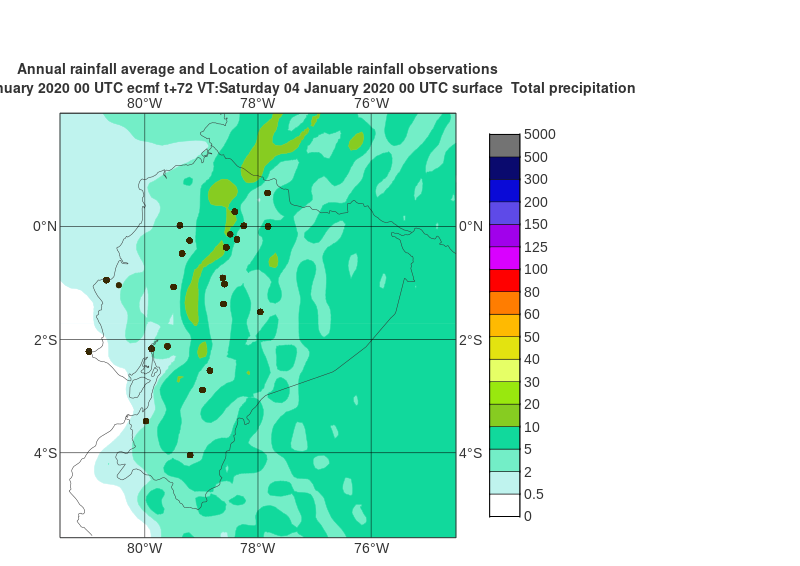
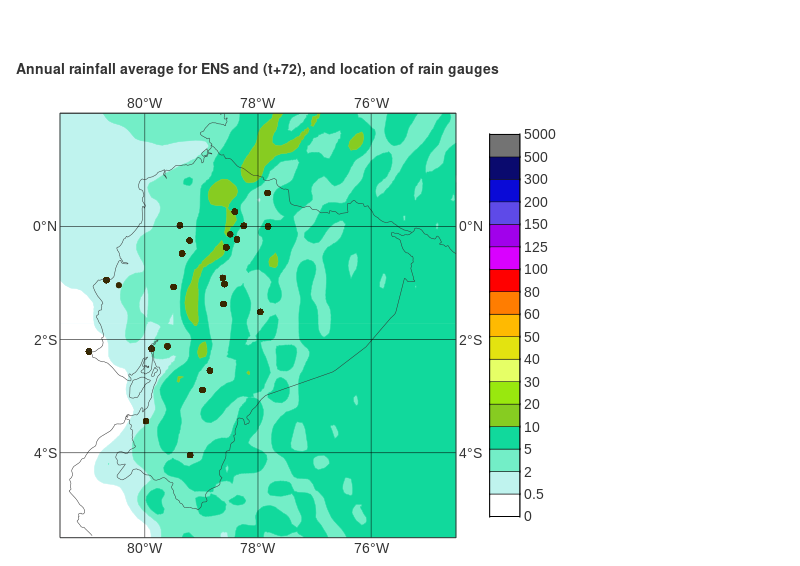
Improve the map plot with the annual averages and the observations histograms.

Changed region(s): [[0.0, 0.0901, 0.8125, 0.1802]]

diff --git a/Scripts/Processed/24_Plot_Histogram_RainOBS.py b/Scripts/Processed/24_Plot_Histogram_RainOBS.py
@@ -41,20 +41,19 @@ for AccPerF in AccPerF_list:
             RegionName = RegionName_list[ind_Region]
             RegionColour = RegionColour_list[ind_Region]
             
-            # Setting the figure where to plot the timeseries
-            fig, ax = plt.subplots(figsize=(15, 12), sharex=True)
-
             # Reading the values of the rainfall observations
             FileIN = Git_repo + "/" + DirIN + "/" + f"{Acc:02d}" + "h/vals_obs_" + f"{Acc:02d}" + "h_" + RegionName + "_" + f"{AccPerF:02d}" + "UTC.npy"
             vals_obs = np.load(FileIN)
 
             # Plot the timeseries
+            fig, ax = plt.subplots(figsize=(15, 12), sharex=True)
             ax.hist(vals_obs, bins=np.arange(0, int(np.max(vals_obs)+10)), color=RegionColour, edgecolor='black')
             ax.set_title("Rainfall observations for accumulation periods ending at " + f"{AccPerF:02d}" + " UTC in " + RegionName + "\nObservations between " + DateTimeS.strftime("%Y%m%d") + " and " + DateTimeF.strftime("%Y%m%d"), fontsize=24, pad=10, color="#333333", weight="bold")
             ax.set_xlabel("Bins [mm/" + str(Acc) + "h]", fontsize=24, labelpad=20, color="#333333")
             ax.set_ylabel("Counts", fontsize=24, labelpad=24, color="#333333")
-            ax.set_xticks(np.arange(0, int(np.max(vals_obs)+10), 10))
-            ax.set_ylim([0,70])
+            ax.set_xticks(np.arange(0, 160, 10))
+            ax.set_xlim([0,160])
+            ax.set_ylim([0,1200])
             ax.xaxis.set_tick_params(labelsize=24, rotation=30, color="#333333")
             ax.yaxis.set_tick_params(labelsize=24, color="#333333")
             ax.grid()
@@ -62,6 +61,27 @@ for AccPerF in AccPerF_list:
             # Saving the plot
             DirOUT_temp= Git_repo + "/" + DirOUT + "/" + f"{Acc:02d}" + "h"
             FileNameOUT_temp = "Histogram_RainOBS_" + f"{Acc:02d}" + "h_" + RegionName  + "_" + f"{AccPerF:02d}" + "UTC.jpeg"
+            if not os.path.exists(DirOUT_temp):
+                  os.makedirs(DirOUT_temp)
+            plt.savefig(DirOUT_temp + "/" + FileNameOUT_temp)
+            plt.close()
+
+            # Plot the timeseries
+            fig, ax = plt.subplots(figsize=(15, 12), sharex=True)
+            ax.hist(vals_obs, bins=np.arange(0, int(np.max(vals_obs)+10)), color=RegionColour, edgecolor='black')
+            ax.set_title("Rainfall observations for accumulation periods ending at " + f"{AccPerF:02d}" + " UTC in " + RegionName + "\nObservations between " + DateTimeS.strftime("%Y%m%d") + " and " + DateTimeF.strftime("%Y%m%d"), fontsize=24, pad=10, color="#333333", weight="bold")
+            ax.set_xlabel("Bins [mm/" + str(Acc) + "h]", fontsize=24, labelpad=20, color="#333333")
+            ax.set_ylabel("Counts", fontsize=24, labelpad=24, color="#333333")
+            ax.set_xticks(np.arange(0, 160, 10))
+            ax.set_xlim([0,160])
+            ax.set_ylim([0,70])
+            ax.xaxis.set_tick_params(labelsize=24, rotation=30, color="#333333")
+            ax.yaxis.set_tick_params(labelsize=24, color="#333333")
+            ax.grid()
+            
+            # Saving the plot
+            DirOUT_temp= Git_repo + "/" + DirOUT + "/" + f"{Acc:02d}" + "h"
+            FileNameOUT_temp = "Histogram_RainOBS_ZoomedIN_" + f"{Acc:02d}" + "h_" + RegionName  + "_" + f"{AccPerF:02d}" + "UTC.jpeg"
             if not os.path.exists(DirOUT_temp):
                   os.makedirs(DirOUT_temp)
             plt.savefig(DirOUT_temp + "/" + FileNameOUT_temp)

diff --git a/Scripts/Processed/23_Plot_AverageYear_RainFC_LocOBS.py b/Scripts/Processed/23_Plot_AverageYear_RainFC_LocOBS.py
@@ -120,8 +120,8 @@ for StepF in StepF_list:
             
             title = mv.mtext(
                   text_line_count = 2,
-                  text_line_1 = "Annual rainfall average and Location of available rainfall observations",
-                  text_line_3 = " ",
+                  text_line_1 = "Annual rainfall average for " + SystemFC + " and (t+"  f"{StepF:02d}" + "), and location of rain gauges",
+                  text_line_2 = " ",
                   text_font = "sansserif",
                   text_colour = "charcoal",
                   text_font_size = 0.6,
